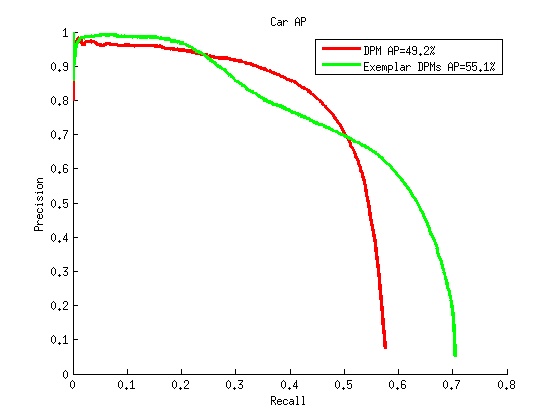
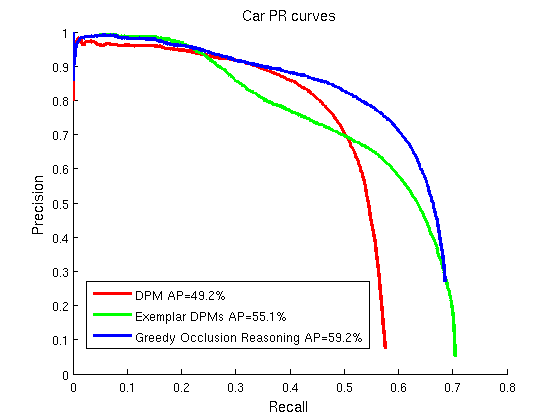
compute AP for greedy occlusion reasoning

diff --git a/Exemplar_DPM/compute_recall_precision_3d.m b/Exemplar_DPM/compute_recall_precision_3d.m
@@ -105,9 +105,12 @@ fprintf('AP = %.4f\n', ap);
 % draw recall-precision and accuracy curve
 figure(1);
 hold on;
-plot(recall, precision, 'g', 'LineWidth',3);
-xlabel('Recall');
-ylabel('Precision');
+plot(recall, precision, 'b', 'LineWidth',3);
+h = xlabel('Recall');
+set(h, 'FontSize', 12);
+h = ylabel('Precision');
+set(h, 'FontSize', 12);
 tit = sprintf('Average Precision = %.1f', 100*ap);
-title(tit);
+h = title(tit);
+set(h, 'FontSize', 12);
 hold off;

diff --git a/Exemplar_DPM/compute_recall_precision_kitti.m b/Exemplar_DPM/compute_recall_precision_kitti.m
@@ -104,8 +104,11 @@ fprintf('AP = %.4f\n', ap);
 figure(1);
 hold on;
 plot(recall, precision, 'g', 'LineWidth',3);
-xlabel('Recall');
-ylabel('Precision');
+h = xlabel('Recall');
+set(h, 'FontSize', 12);
+h = ylabel('Precision');
+set(h, 'FontSize', 12);
 tit = sprintf('Average Precision = %.1f', 100*ap);
-title(tit);
+h = title(tit);
+set(h, 'FontSize', 12);
 hold off;

diff --git a/3rd_party/voc-release4.01/compute_recall_precision_kitti.m b/3rd_party/voc-release4.01/compute_recall_precision_kitti.m
@@ -97,8 +97,11 @@ fprintf('AP = %.4f\n', ap);
 figure(1);
 hold on;
 plot(recall, precision, 'r', 'LineWidth',3);
-xlabel('Recall');
-ylabel('Precision');
+h = xlabel('Recall');
+set(h, 'FontSize', 12);
+h = ylabel('Precision');
+set(h, 'FontSize', 12);
 tit = sprintf('Average Precision = %.1f', 100*ap);
-title(tit);
+h = title(tit);
+set(h, 'FontSize', 12);
 hold off;
